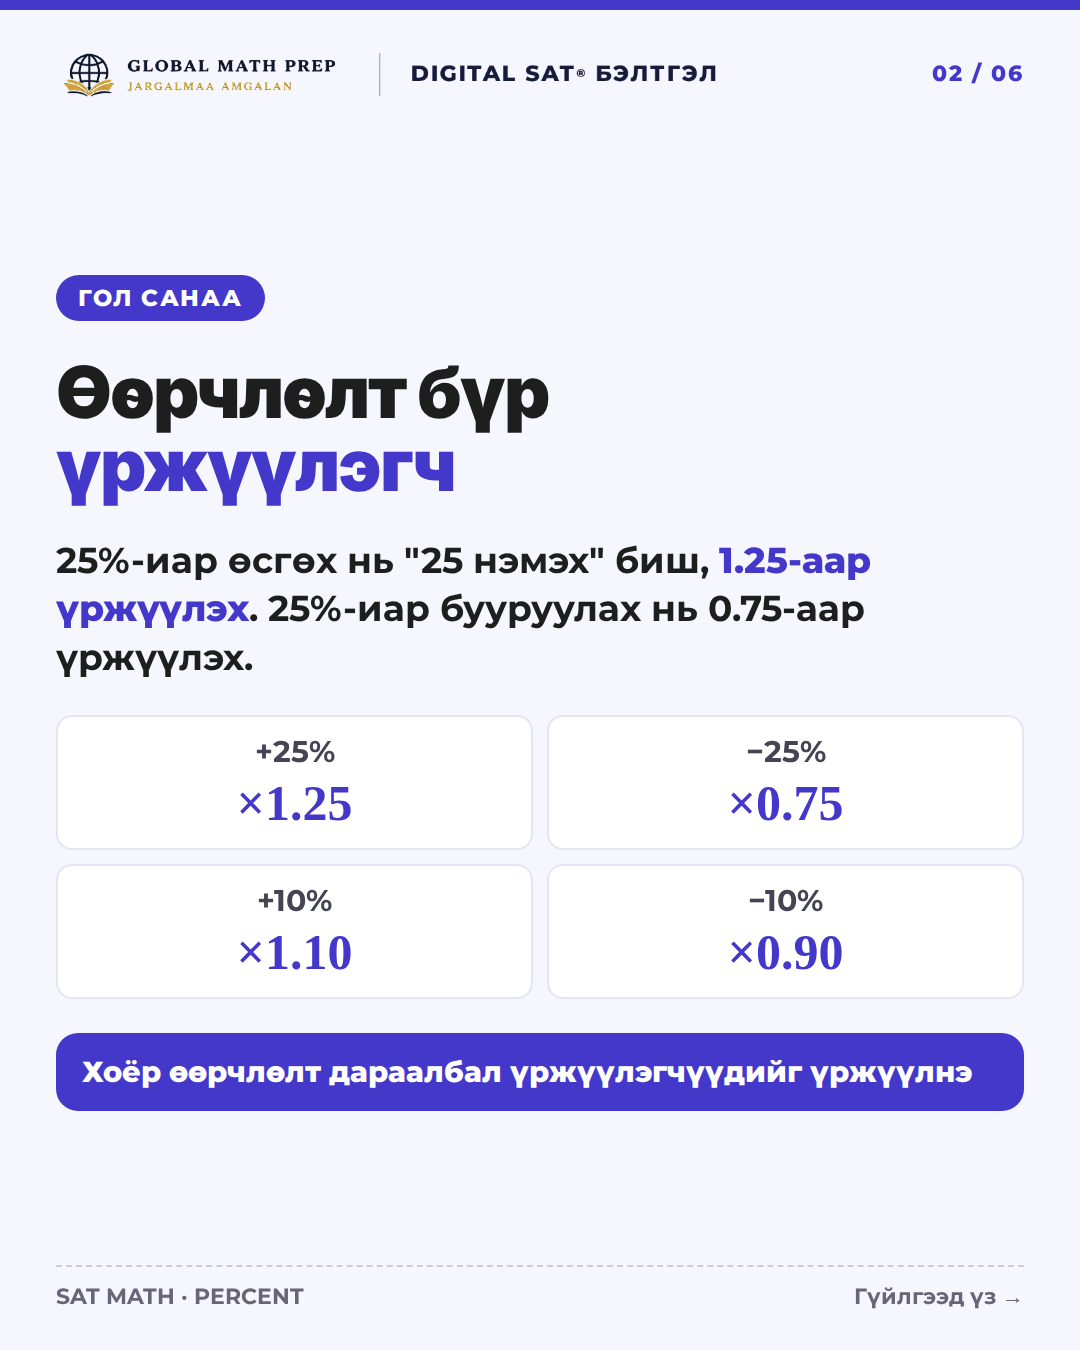
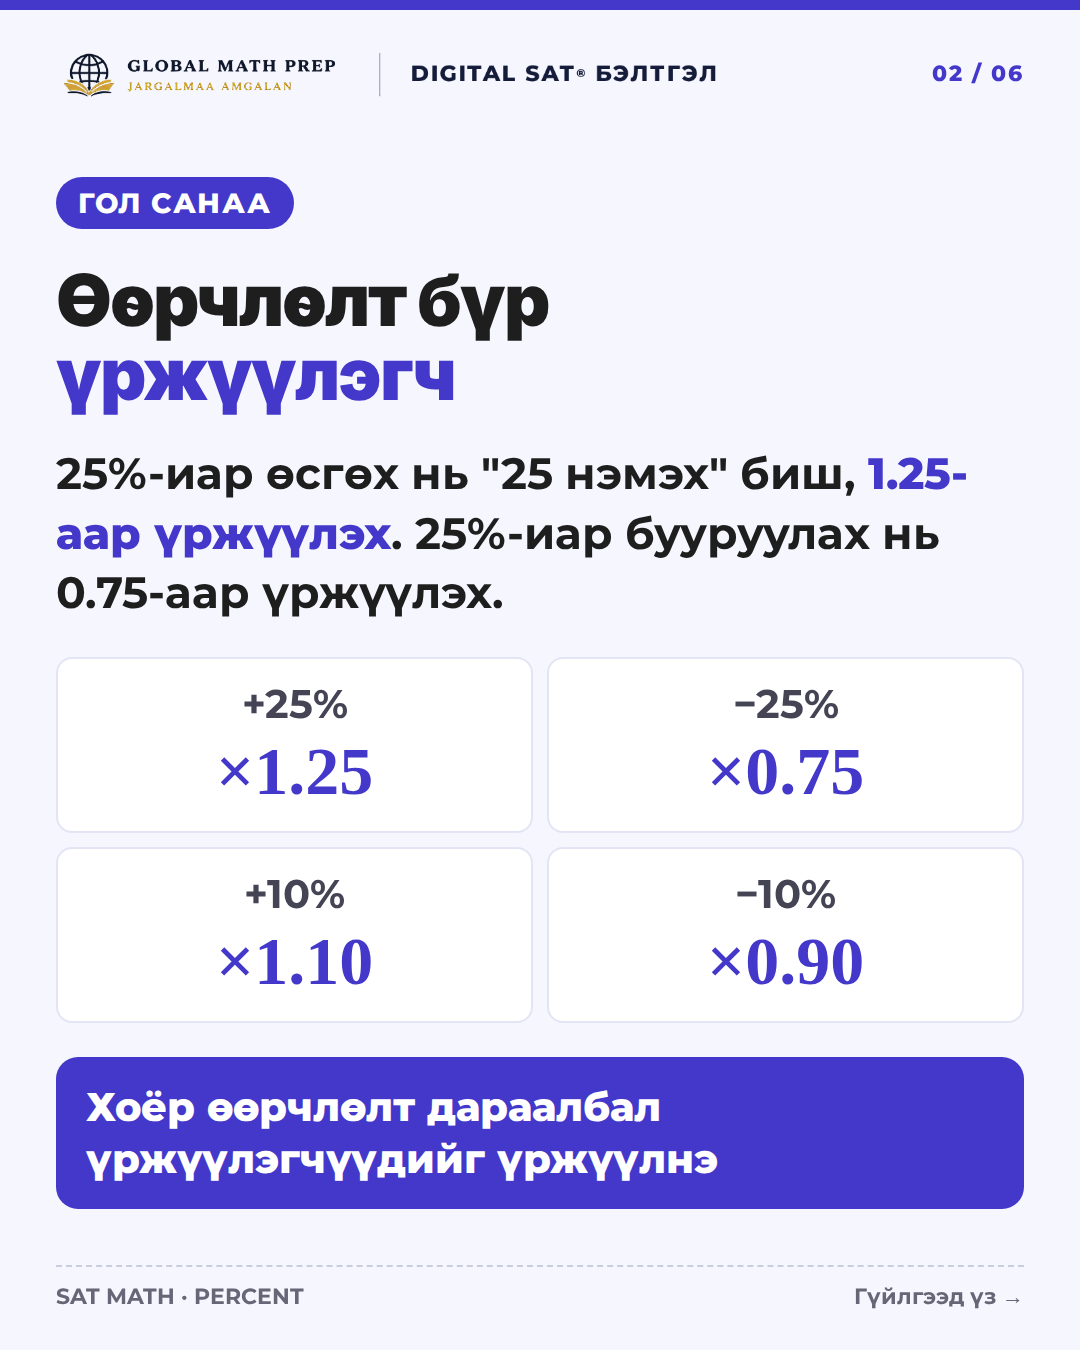
Percent post: bigger text
Claude-Session: https://claude.ai/code/session_01FLPzALAJUoveurDTsvCi1K

Changed region(s): [[0.0306, 0.1244, 0.9472, 0.9022]]

diff --git a/tools/v2/gen35.py b/tools/v2/gen35.py
@@ -12,6 +12,26 @@ EXTRA = gen33.EXTRA.replace('#be185d', AC) + """
 .mt div{background:#fff;border:2px solid #e3e5f5;border-radius:16px;padding:16px 18px;text-align:center}
 .mt b{display:block;font-size:30px;color:#445;font-weight:700}
 .mt span{display:block;font-family:S,serif;font-size:50px;color:""" + AC + """;font-weight:700;margin-top:4px}
+/* bigger text (13 Oct feedback) */
+.lead{font-size:44px!important;line-height:1.35!important}
+.rule{font-size:40px!important;padding:24px 30px!important}
+.big{font-size:42px!important}
+.chips span{font-size:34px!important;padding:12px 26px!important}
+.swipe{font-size:30px!important}
+.mt b{font-size:40px!important}.mt span{font-size:68px!important}.mt div{padding:20px!important}
+.tag{font-size:32px!important;padding:6px 16px!important}
+.eqc{font-size:80px!important}
+.k{width:64px!important;height:64px!important;font-size:34px!important}
+.e{font-size:48px!important;width:auto!important;min-width:400px;white-space:nowrap}
+.st .d{font-size:34px!important}
+.d{font-size:40px!important}
+.st{padding:18px 0!important}
+.bxs{font-size:48px!important;line-height:1.35!important}
+.spr{font-size:30px!important}.bxin{width:260px!important;height:72px!important}
+.ok{font-size:60px!important}
+.pill{font-size:28px!important}
+.card[style*="font-size:27px"]{font-size:31px!important;white-space:nowrap}
+.card[style*="font-size:27px"] span{font-size:inherit}
 """
 
 def css():
